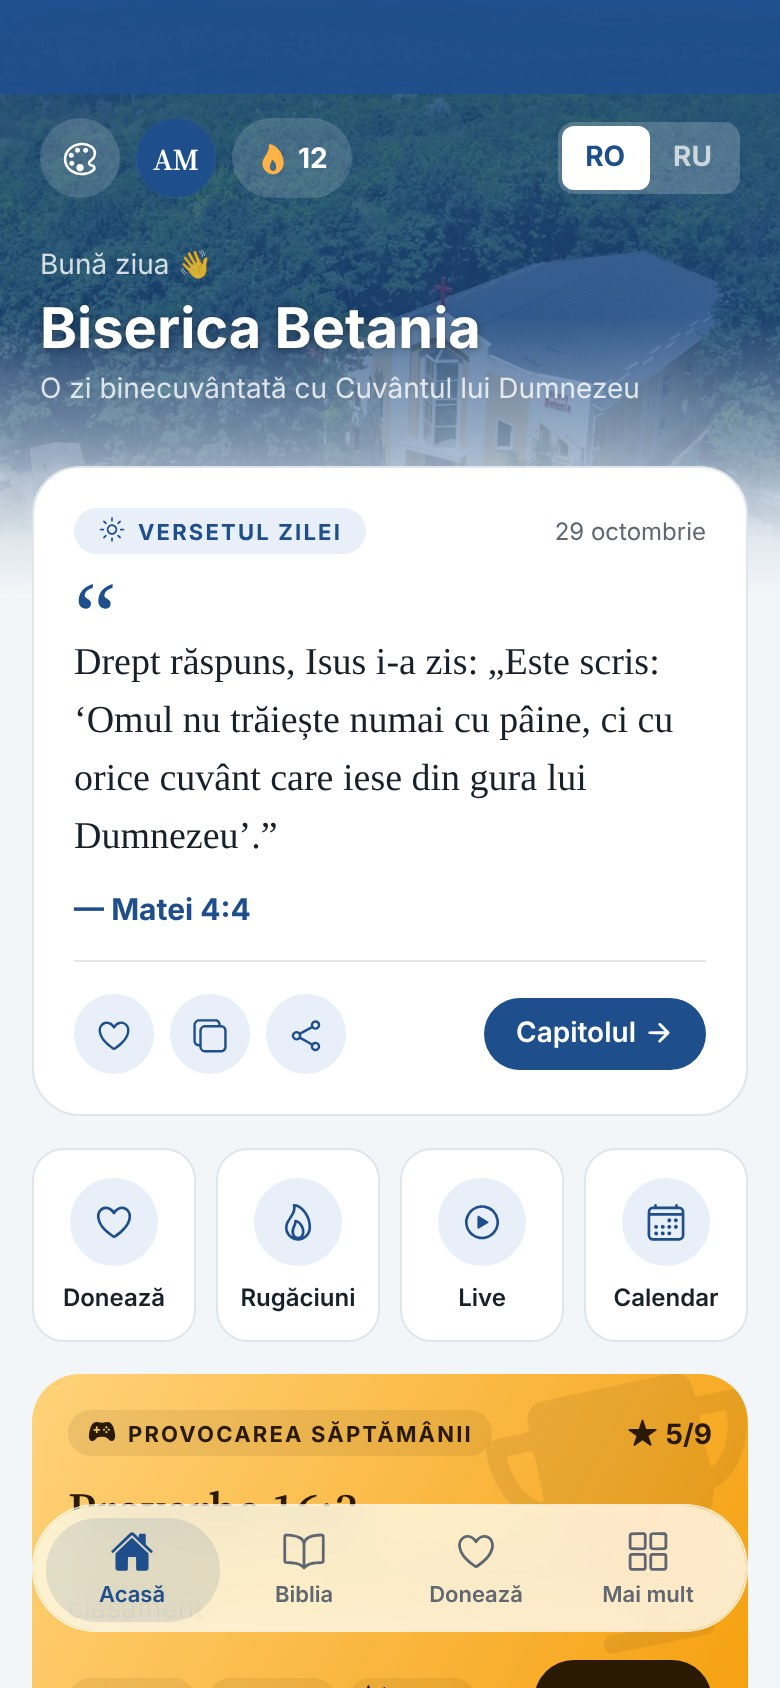
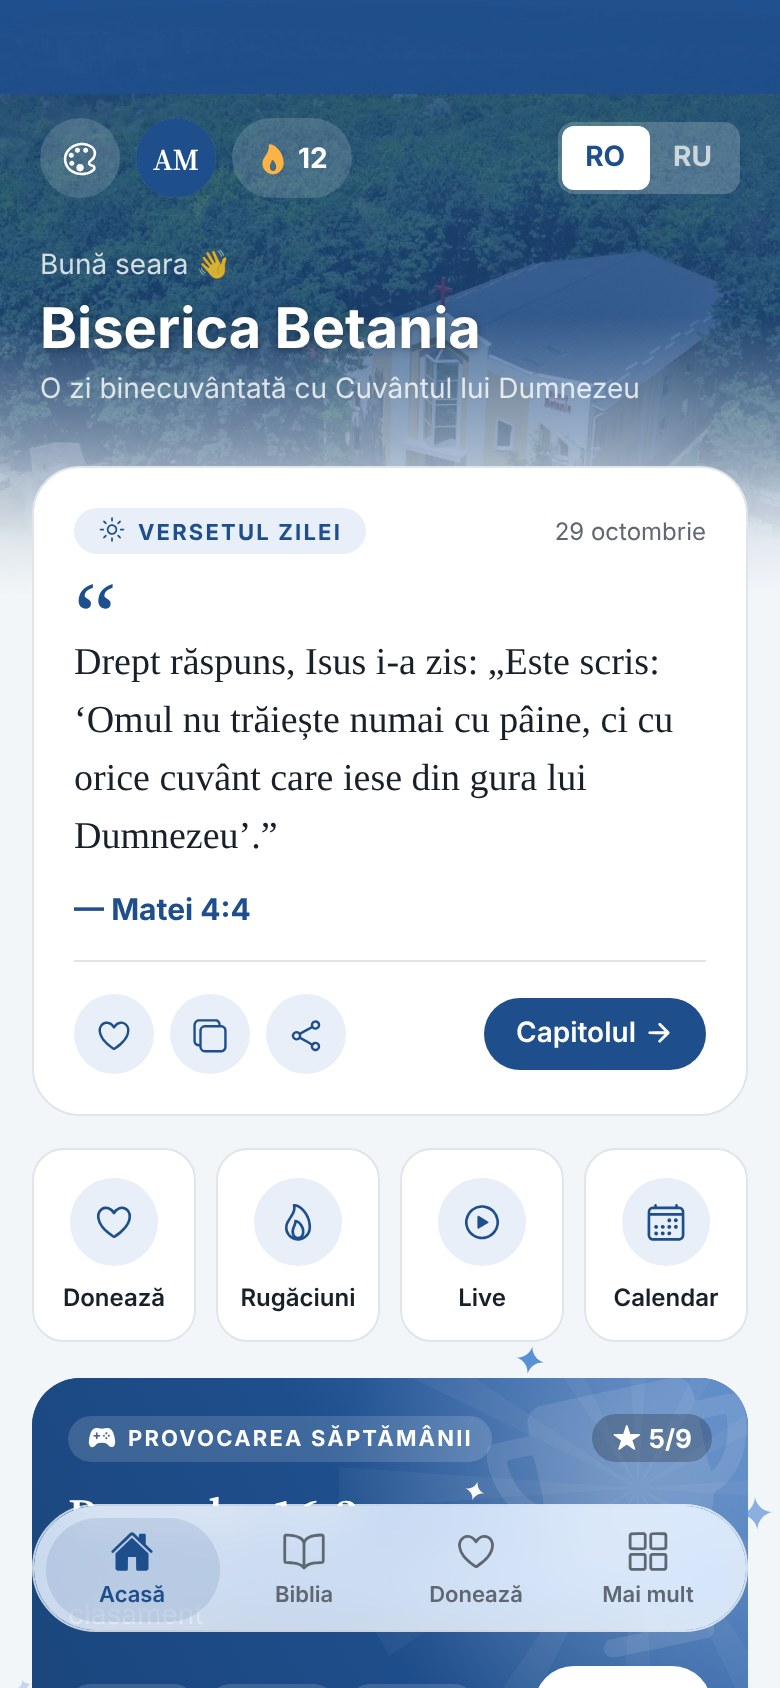
Provocarea săptămânii în culoarea temei, cu steluțe care se aprind pe margini
- Cardul nu mai e auriu pe toate temele: gradientul pornește din accentul temei (verde pe verde,
  albastru pe albastru, …) și se luminează spre colțul trofeului, cu o lumină și raze discrete.
- Steluțe cu patru raze (components/Sparkles.tsx) se aprind pe rând, pe margini și puțin în afară,
  în culoarea deschisă a accentului; înăuntru, albe. Cu „Reducerea mișcării” pornită stau pe loc.
- Textul e alb, „Joacă” e o pastilă albă cu textul în accent; stelele (x/9) pe o pastilă închisă,
  ca să se citească și pe capătul luminos.
- Auriul (goldFrom/goldTo/onGold) a ieșit din temă: nu-l mai folosea nimic.
- Capturile de pe Acasă și planșele refăcute.

Changed region(s): [[0.0308, 0.8009, 0.9846, 1.0], [0.1538, 0.1232, 0.3077, 0.1848]]

diff --git a/components/WeeklyChallengeCard.tsx b/components/WeeklyChallengeCard.tsx
@@ -2,19 +2,30 @@ import React from 'react';
 import { View, Text, StyleSheet } from 'react-native';
 import { Ionicons } from '@expo/vector-icons';
 import { LinearGradient } from 'expo-linear-gradient';
+import Svg, { Defs, RadialGradient, Stop, Circle, Path } from 'react-native-svg';
 import { useRouter } from 'expo-router';
 import { useLanguage } from '../i18n';
 import { useTheme } from '../lib/theme';
 import { useUserData } from '../lib/user-data';
 import { GAMES, getWeeklyVerse, isMastered, totalStars } from '../lib/memory';
+import { mix } from '../lib/color';
 import { FONT } from '../lib/fonts';
 import { tap } from '../lib/haptics';
 import PressableScale from './PressableScale';
+import Sparkles, { type Sparkle } from './Sparkles';
 import Stars, { GAME_ICONS } from './Stars';
+
+// Lumina din colțul trofeului: raze subțiri care pornesc din centru (300×300, centrul la 150,150).
+const RAYS = Array.from({ length: 12 }, (_, i) => {
+  const a = (i / 12) * Math.PI * 2;
+  const w = 0.07;
+  const p = (t: number) => `${150 + Math.cos(t) * 150} ${150 + Math.sin(t) * 150}`;
+  return `M150 150L${p(a - w)}L${p(a + w)}Z`;
+}).join('');
 
 /**
  * Provocarea săptămânii pe Acasă: versetul de memorat, cele trei jocuri cu stelele lor și „Joacă”.
- * Auriu (ca flacăra seriei), ca să se vadă că e un joc, pe oricare culoare a aplicației.
+ * În culoarea temei (verde pe verde, albastru pe albastru), cu steluțe care se aprind pe margini.
  */
 export default function WeeklyChallengeCard() {
   const { t, language } = useLanguage();
@@ -25,7 +36,24 @@ export default function WeeklyChallengeCard() {
   const score = memory[verse.id];
   const stars = totalStars(score);
   const done = isMastered(score);
-  const ink = colors.onGold;
+  const deep = colors.primaryDeep;
+  // Capătul luminos, sus în dreapta, unde nu e text mărunt (stelele stau pe o pastilă închisă).
+  const bright = mix(deep, colors.primaryBright, 0.75);
+  const out = colors.primaryBright;
+  const soft = mix(colors.primaryBright, '#FFFFFF', 0.6);
+
+  const sparkles: Sparkle[] = [
+    { top: -12, left: 20, size: 20, color: out, delay: 0, drift: [-3, -6] },
+    { top: 16, right: 70, size: 12, color: '#FFFFFF', delay: 270, drift: [0, -3] },
+    { bottom: 40, left: -10, size: 16, color: out, delay: 540, drift: [-6, 0] },
+    { top: 58, right: -11, size: 22, color: out, delay: 810, drift: [6, -2] },
+    { top: 100, right: 26, size: 14, color: soft, delay: 1080, drift: [2, -2] },
+    { top: -10, right: 104, size: 14, color: out, delay: 1350, drift: [2, -6] },
+    { bottom: -11, left: '44%', size: 17, color: out, delay: 1620, drift: [0, 6] },
+    { top: 52, right: 132, size: 9, color: '#FFFFFF', delay: 1890 },
+    { bottom: -8, right: 28, size: 13, color: out, delay: 2160, drift: [3, 5] },
+    { top: -8, left: '52%', size: 11, color: out, delay: 2430, drift: [0, -5] },
+  ];
 
   return (
     <PressableScale
@@ -35,61 +63,84 @@ export default function WeeklyChallengeCard() {
       }}
       accessibilityRole="button"
       accessibilityLabel={`${t('challengeTitle')}: ${verse.reference}`}
-      wrapperStyle={{ marginHorizontal: 16, marginTop: 16 }}
-      style={styles.card}
+      wrapperStyle={{ marginHorizontal: 16, marginTop: 18 }}
+      style={[styles.card, { backgroundColor: deep, shadowColor: colors.isDark ? '#000000' : deep }]}
     >
-      <LinearGradient colors={[colors.goldFrom, colors.goldTo]} start={{ x: 0, y: 0 }} end={{ x: 1, y: 1 }} style={StyleSheet.absoluteFill} />
-      {/* Trofeul mare, abia vizibil, în colț. */}
-      <View pointerEvents="none" style={styles.trophy}>
-        <Ionicons name="trophy" size={150} color={ink} style={{ opacity: 0.08 }} />
+      <View style={styles.clip}>
+        <LinearGradient
+          colors={[mix(deep, '#000000', 0.12), deep, bright]}
+          locations={[0, 0.5, 1]}
+          start={{ x: 0, y: 1 }}
+          end={{ x: 1, y: 0 }}
+          style={StyleSheet.absoluteFill}
+        />
+        <Svg width={300} height={300} style={styles.glow}>
+          <Defs>
+            <RadialGradient id="glow" cx="150" cy="150" r="150" gradientUnits="userSpaceOnUse">
+              <Stop offset="0" stopColor="#FFFFFF" stopOpacity={0.24} />
+              <Stop offset="1" stopColor="#FFFFFF" stopOpacity={0} />
+            </RadialGradient>
+          </Defs>
+          <Path d={RAYS} fill="#FFFFFF" opacity={0.045} />
+          <Circle cx={150} cy={150} r={150} fill="url(#glow)" />
+        </Svg>
+        {/* Trofeul mare, abia vizibil, în colț. */}
+        <View style={styles.trophy}>
+          <Ionicons name="trophy" size={150} color="#FFFFFF" style={{ opacity: 0.1 }} />
+        </View>
       </View>
 
       <View className="flex-row items-center">
-        <View className="flex-row items-center rounded-full px-2.5 py-1" style={{ backgroundColor: `${ink}14` }}>
-          <Ionicons name="game-controller" size={14} color={ink} />
-          <Text className="font-ui-bold text-[11px] uppercase tracking-widest ml-1.5" style={{ color: ink }}>
-            {t('challengeTitle')}
-          </Text>
+        <View className="flex-row items-center rounded-full px-2.5 py-1 bg-white/15">
+          <Ionicons name="game-controller" size={14} color="#FFFFFF" />
+          <Text className="font-ui-bold text-[11px] uppercase tracking-widest ml-1.5 text-white">{t('challengeTitle')}</Text>
         </View>
         <View className="flex-1" />
-        <View className="flex-row items-center">
-          <Ionicons name="star" size={15} color={ink} />
-          <Text className="font-ui-bold text-[14px] ml-1" style={{ color: ink }}>
-            {stars}/9
-          </Text>
+        <View className="flex-row items-center rounded-full px-2.5 py-1" style={{ backgroundColor: 'rgba(0,0,0,0.22)' }}>
+          <Ionicons name="star" size={14} color="#FFFFFF" />
+          <Text className="font-ui-bold text-[13px] ml-1 text-white">{stars}/9</Text>
         </View>
       </View>
 
-      <Text className="text-[24px] leading-[30px] mt-3" style={{ color: ink, fontFamily: FONT.serifSemibold }}>
+      <Text className="text-[24px] leading-[30px] mt-3 text-white" style={{ fontFamily: FONT.serifSemibold }}>
         {verse.reference}
       </Text>
-      <Text className="font-ui text-[14px] leading-5 mt-1" style={{ color: ink, opacity: 0.8 }}>
-        {done ? t('challengeDone') : t('challengeDesc')}
-      </Text>
+      <Text className="font-ui text-[14px] leading-5 mt-1 text-white/85">{done ? t('challengeDone') : t('challengeDesc')}</Text>
 
       <View className="flex-row items-center mt-4">
         <View className="flex-row flex-1" style={{ gap: 6 }}>
           {GAMES.map((g) => (
-            <View key={g} className="flex-row items-center rounded-full pl-2 pr-1.5 py-1" style={{ backgroundColor: `${ink}12` }}>
-              <Ionicons name={GAME_ICONS[g]} size={13} color={ink} />
+            <View key={g} className="flex-row items-center rounded-full pl-2 pr-1.5 py-1 bg-white/15">
+              <Ionicons name={GAME_ICONS[g]} size={13} color="#FFFFFF" />
               <View className="ml-1">
-                <Stars count={score?.[g] ?? 0} size={10} color={ink} />
+                <Stars count={score?.[g] ?? 0} size={10} color="#FFFFFF" />
               </View>
             </View>
           ))}
         </View>
-        <View className="flex-row items-center rounded-full pl-4 pr-3 h-10" style={{ backgroundColor: ink }}>
-          <Text className="font-ui-bold text-[14px]" style={{ color: colors.goldFrom }}>
+        <View className="flex-row items-center rounded-full pl-4 pr-3 h-10 bg-white">
+          <Text className="font-ui-bold text-[14px]" style={{ color: deep }}>
             {done ? t('challengeAgain') : t('challengePlay')}
           </Text>
-          <Ionicons name="arrow-forward" size={15} color={colors.goldFrom} style={{ marginLeft: 4 }} />
+          <Ionicons name="arrow-forward" size={15} color={deep} style={{ marginLeft: 4 }} />
         </View>
       </View>
+
+      <Sparkles items={sparkles} />
     </PressableScale>
   );
 }
 
 const styles = StyleSheet.create({
-  card: { borderRadius: 24, overflow: 'hidden', padding: 18 },
+  card: {
+    borderRadius: 24,
+    padding: 18,
+    shadowOpacity: 0.28,
+    shadowRadius: 18,
+    shadowOffset: { width: 0, height: 10 },
+    elevation: 6,
+  },
+  clip: { position: 'absolute', top: 0, left: 0, right: 0, bottom: 0, borderRadius: 24, overflow: 'hidden' },
+  glow: { position: 'absolute', right: -95, top: -95 },
   trophy: { position: 'absolute', right: -18, top: -10, transform: [{ rotate: '-12deg' }] },
 });

diff --git a/components/Sparkles.tsx b/components/Sparkles.tsx
@@ -1,0 +1,103 @@
+import React, { useEffect, useRef, useState } from 'react';
+import { AccessibilityInfo, Animated, Easing, View, type DimensionValue } from 'react-native';
+import Svg, { Path } from 'react-native-svg';
+
+/** O steluță cu patru raze și laturile arcuite, ca o sclipire. */
+function SparkleShape({ size, color }: { size: number; color: string }) {
+  return (
+    <Svg width={size} height={size} viewBox="0 0 24 24">
+      <Path d="M12 0C12.7 6.4 17.6 11.3 24 12C17.6 12.7 12.7 17.6 12 24C11.3 17.6 6.4 12.7 0 12C6.4 11.3 11.3 6.4 12 0Z" fill={color} />
+    </Svg>
+  );
+}
+
+export interface Sparkle {
+  top?: DimensionValue;
+  bottom?: DimensionValue;
+  left?: DimensionValue;
+  right?: DimensionValue;
+  size: number;
+  color: string;
+  /** Când apare în ciclu, în ms. */
+  delay: number;
+  /** Încotro se depărtează cât se aprinde, în px. */
+  drift?: [number, number];
+}
+
+// Un ciclu: fiecare steluță se aprinde, se stinge și așteaptă până la următorul, pe rând cu celelalte.
+const PERIOD = 4400;
+const IN = 700;
+const HOLD = 250;
+const OUT = 1000;
+
+function useReduceMotion() {
+  const [reduce, setReduce] = useState(false);
+  useEffect(() => {
+    AccessibilityInfo.isReduceMotionEnabled().then(setReduce).catch(() => {});
+    const sub = AccessibilityInfo.addEventListener('reduceMotionChanged', setReduce);
+    return () => sub.remove();
+  }, []);
+  return reduce;
+}
+
+function Twinkle({ sparkle, still }: { sparkle: Sparkle; still: boolean }) {
+  const v = useRef(new Animated.Value(still ? 1 : 0)).current;
+  useEffect(() => {
+    if (still) {
+      v.setValue(1);
+      return;
+    }
+    v.setValue(0);
+    const loop = Animated.loop(
+      Animated.sequence([
+        Animated.delay(sparkle.delay),
+        Animated.timing(v, { toValue: 1, duration: IN, easing: Easing.out(Easing.back(2)), useNativeDriver: true }),
+        Animated.delay(HOLD),
+        Animated.timing(v, { toValue: 0, duration: OUT, easing: Easing.in(Easing.quad), useNativeDriver: true }),
+        Animated.delay(Math.max(0, PERIOD - sparkle.delay - IN - HOLD - OUT)),
+      ]),
+    );
+    loop.start();
+    return () => loop.stop();
+  }, [still, sparkle.delay, v]);
+
+  const [dx, dy] = sparkle.drift ?? [0, 0];
+  const { top, bottom, left, right, size } = sparkle;
+  return (
+    <Animated.View
+      style={{
+        position: 'absolute',
+        top,
+        bottom,
+        left,
+        right,
+        opacity: still ? 0.8 : v,
+        transform: still
+          ? []
+          : [
+              { translateX: v.interpolate({ inputRange: [0, 1], outputRange: [0, dx] }) },
+              { translateY: v.interpolate({ inputRange: [0, 1], outputRange: [0, dy] }) },
+              { scale: v.interpolate({ inputRange: [0, 1], outputRange: [0.2, 1] }) },
+              { rotate: v.interpolate({ inputRange: [0, 1], outputRange: ['-35deg', '10deg'] }) },
+            ],
+      }}
+    >
+      <SparkleShape size={size} color={sparkle.color} />
+    </Animated.View>
+  );
+}
+
+/**
+ * Steluțe care se aprind pe rând și ies puțin în afară, peste un card (stratul nu primește atingeri).
+ * Cu „Reducerea mișcării” din telefon pornită, rămân pe loc, fără animație.
+ */
+export default function Sparkles({ items }: { items: Sparkle[] }) {
+  const still = useReduceMotion();
+  return (
+    <View pointerEvents="none" style={{ position: 'absolute', top: 0, left: 0, right: 0, bottom: 0 }}>
+      {items.map((s, i) => (
+        <Twinkle key={i} sparkle={s} still={still} />
+      ))}
+    </View>
+  );
+}

diff --git a/lib/theme.tsx b/lib/theme.tsx
@@ -16,12 +16,6 @@ export const ACCENTS = {
 export type Accent = keyof typeof ACCENTS;
 export type ThemeMode = 'system' | 'light' | 'dark';
 
-// Auriul jocurilor și al realizărilor: iese în evidență pe oricare dintre cele 6 accente (e și culoarea flăcării seriei).
-const GOLD = {
-  light: { goldFrom: '#FFD27A', goldTo: '#F59E0B', onGold: '#2B1A03' },
-  dark: { goldFrom: '#E3A23C', goldTo: '#B9700C', onGold: '#1A1004' },
-};
-
 export const HIGHLIGHTS = {
   yellow: { light: '#FDF0B5', dark: '#5A4B12' },
   green: { light: '#D5F0D9', dark: '#1F4A2B' },
@@ -67,7 +61,6 @@ function makeColors(accent: Accent, dark: boolean) {
     // Textul de pe primary: alb pe accentul închis; în modul întunecat accentul e deschis și albul n-ar avea contrast.
     onPrimary: dark ? n.bg : '#FFFFFF',
     heroOverlay: `${a.light}B8`,
-    ...(dark ? GOLD.dark : GOLD.light),
     ...n,
   };
 }

diff --git a/docs/design/README.md b/docs/design/README.md
@@ -8,7 +8,7 @@ Capturi ale aplicației actuale, pentru designer. Merg împreună cu [`../DESIGN
 > - neutrele (fundal, text, linii) sunt nuanțate după culoarea de accent, în luminos și în întunecat
 > - antetele au un gradient diagonal cu colțuri rotunjite
 > - bara de jos plutește, ca o bulă de sticlă: Liquid Glass pe iOS 26+, estompare pe iOS mai vechi și pe web, translucidă pe Android
-> - pe Acasă, Biblia a ieșit din scurtături (e în bară), iar memorarea a devenit cardul auriu „Provocarea săptămânii”
+> - pe Acasă, Biblia a ieșit din scurtături (e în bară), iar memorarea a devenit cardul „Provocarea săptămânii”, în culoarea temei, cu steluțe care se aprind pe margini
 > - cardurile principale se strâng elastic la atingere
 
 - **Format:** iPhone 390×844 pt, rezoluție 2× (780×1688 px), cu zonele sigure ale unui iPhone (notch și bara de jos).
